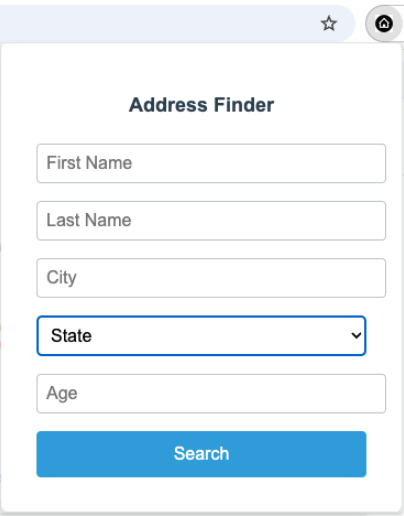
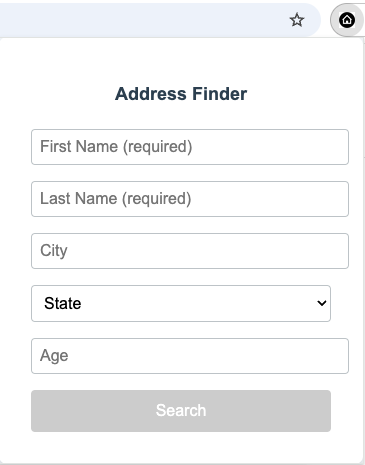
initial commit

diff --git a/popup.html b/popup.html
@@ -52,7 +52,7 @@
         button {
             width: 100%;
             padding: 0.75rem;
-            background-color: #3498db;
+            background-color: #cccccc;
             color: white;
             border: none;
             border-radius: 4px;
@@ -68,8 +68,9 @@
 <body>
     <div class="container">
         <h2>Address Finder</h2>
-        <input type="text" id="firstName" placeholder="First Name">
-        <input type="text" id="lastName" placeholder="Last Name">
+        <form id="searchForm">
+        <input type="text" id="firstName" placeholder="First Name (required)">
+        <input type="text" id="lastName" placeholder="Last Name (required)">
         <input type="text" id="city" placeholder="City">
         <select name="state" id="state">
             <option value="">State</option>
@@ -126,8 +127,10 @@
             <option value="WY">Wyoming</option>
         </select>
         <input type="text" id="age" placeholder="Age">
-        <button id="submit">Search</button>
+        <button id="submit" disabled>Search</button>
+        </form>
     </div>
+    <script src="validation.js"></script>
     <script src="popup.js"></script>
 </body>
 </html>

diff --git a/validation.js b/validation.js
@@ -1,0 +1,17 @@
+const form = document.getElementById('searchForm');
+const firstNameInput = document.getElementById('firstName');
+const lastNameInput = document.getElementById('lastName');
+const submitButton = document.getElementById('submit');
+
+function validateForm() {
+    const isValid = firstNameInput.value.trim() !== '' && lastNameInput.value.trim() !== '';
+    submitButton.disabled = !isValid;
+    if (isValid) {
+        submitButton.style.backgroundColor = '#3498db';
+    } else {
+        submitButton.style.backgroundColor = '#cccccc';
+    }
+}
+
+firstNameInput.onchange = validateForm;
+lastNameInput.onchange = validateForm;
